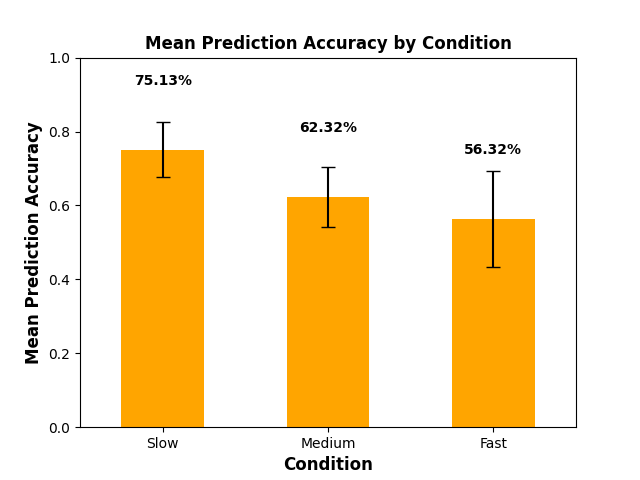
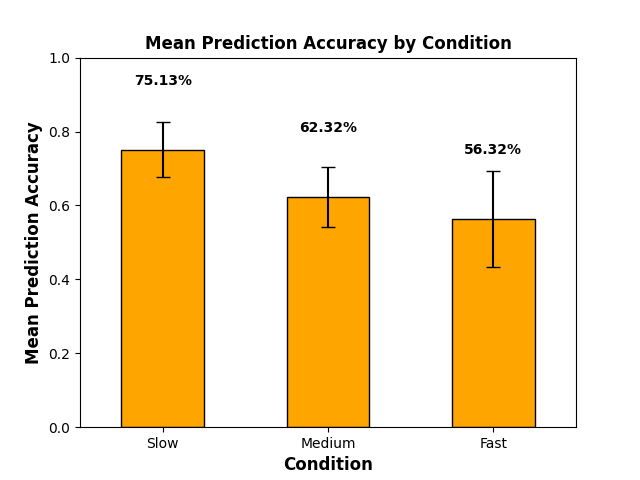
updated bar graph to have outline

Changed region(s): [[0.1875, 0.3125, 0.3438, 0.9062], [0.4375, 0.4062, 0.5938, 0.9062], [0.6875, 0.4375, 0.8438, 0.9062]]

diff --git a/performance_metrics/condition_vs_accuracy_bargraph_overall/bar_graph.py b/performance_metrics/condition_vs_accuracy_bargraph_overall/bar_graph.py
@@ -19,7 +19,7 @@ def generate_graph(datafilename=None, ascending=False, color='blue', axis_fontsi
     std_acc = std_acc[mean_acc.index]
 
     # Plot a bar graph of the mean prediction accuracy for each condition
-    ax = mean_acc.plot.bar(yerr=std_acc, color=color, capsize=5)
+    ax = mean_acc.plot.bar(yerr=std_acc, color=color, capsize=5, edgecolor= 'black')
     ax.set_xlabel('Condition', fontsize=axis_fontsize, fontweight=axis_fontweight)
     ax.set_ylabel('Mean Prediction Accuracy', fontsize=axis_fontsize, fontweight=axis_fontweight)
     ax.set_title('Mean Prediction Accuracy by Condition', fontsize=axis_fontsize, fontweight=axis_fontweight)
